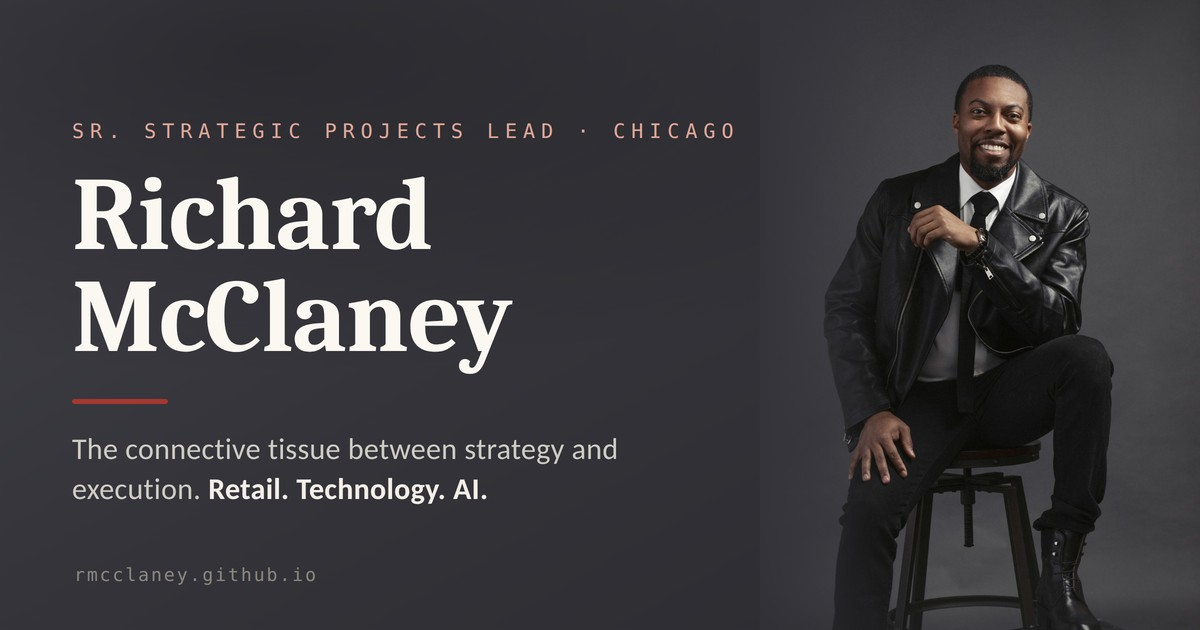
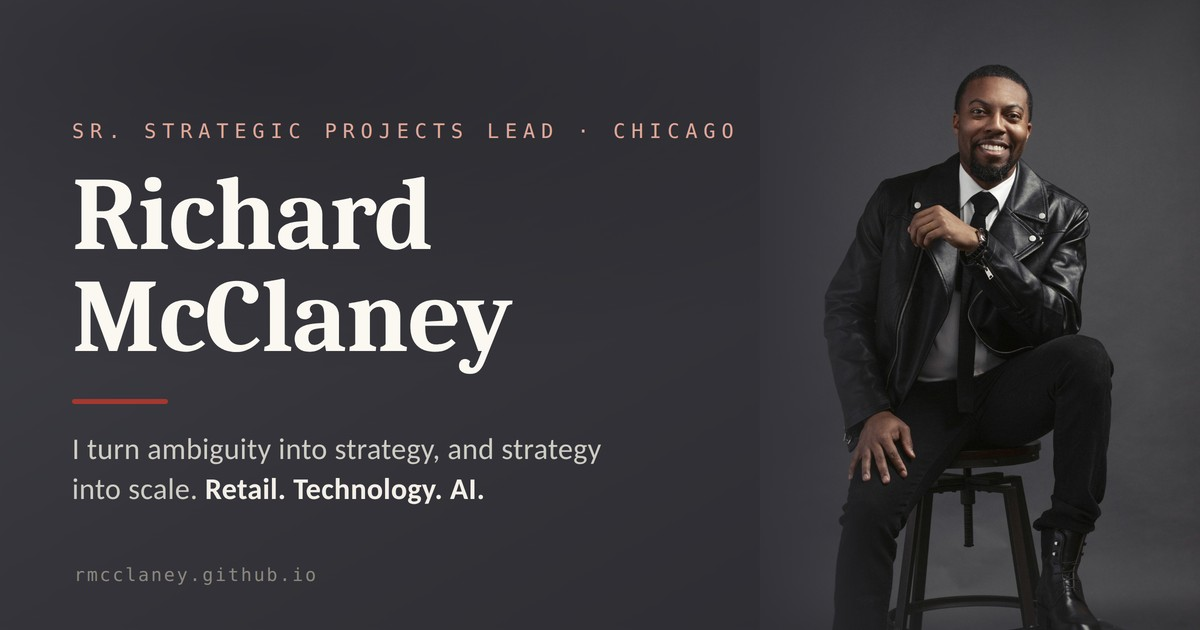
Add files via upload

Changed region(s): [[0.0617, 0.6937, 0.5242, 0.8143]]

diff --git a/index.html b/index.html
@@ -328,7 +328,7 @@
       <div class="hero-copy">
         <span class="eyebrow">Sr. Strategic Projects Lead · Chicago, IL</span>
         <h1>Richard<br>McClaney</h1>
-        <div class="role">The connective tissue between strategy and execution.</div>
+        <div class="role">I turn ambiguity into strategy, and strategy into scale.</div>
         <p class="lead">Fifteen-plus years turning big, cross-functional ambitions into systems that actually run across <b>retail</b>, <b>technology</b>, and now <b>AI</b>.</p>
         <div class="hero-cta">
           <button class="btn btn-primary" data-tab="work">See the work</button>
